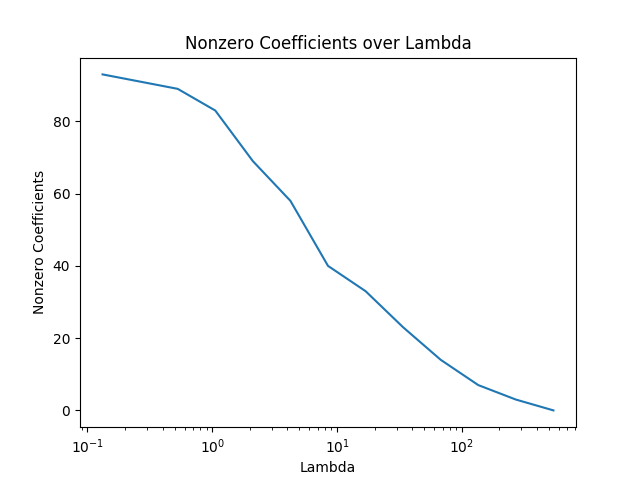
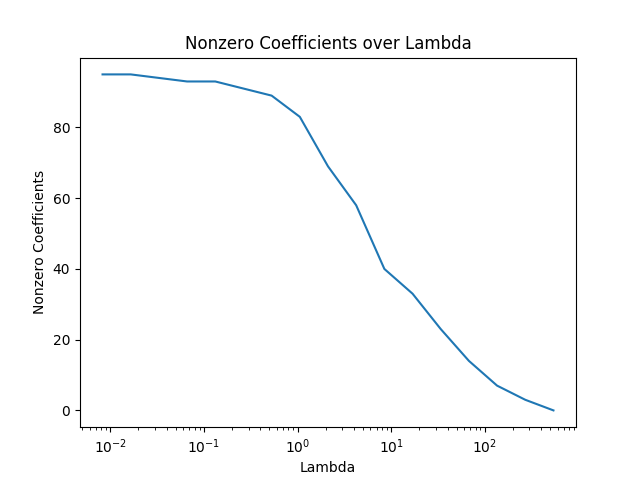
5d graph looks jank

diff --git a/hw2-code/src/crime-lasso.py b/hw2-code/src/crime-lasso.py
@@ -50,29 +50,34 @@ def main():
     else:
       w, b = crime_train_lasso.coord_desc(lamb, w=w_zero)
 
-    w_list.append(w)
+    print(w[0])
+    w_list.append(np.copy(w))
     b_list.append(b)
 
     lamb_data.append(lamb)
     nz_count = np.count_nonzero(w)
     nonzero_data.append(nz_count)
 
-    lamb = lamb / 2
-
-    if lamb < 0.1:
+    if lamb < 0.01:
       break
+
+    lamb = lamb / 2
 
   data_list = []
   for index in input_indices:
-    data_list.append(w_list[i][index] for i in range(len(w_list)))
-  print(len(data_list))
+    data_list.append([w_list[i][index] for i in range(len(w_list))])
+  
+  # print(data_list)
 
   h.plot_single("Nonzero Coefficients over Lambda", "A5c.png",
                 "Lambda", "Nonzero Coefficients", lamb_data, nonzero_data, True)
   
-  h.plot_multiple("Nonzero Coefficients over Lambda", "A5d.png", "Lambda", "Weights", lamb_data, data_list, True)
+  h.plot_multiple("Nonzero Coefficients over Lambda", "A5d.png", "Lambda", "Weights", lamb_data, data_list, input_variables, True)
 
-  # h.plot_single("Nonzero Coefficients over Lambda", "A5c.png", "Lambda", "Nonzero Coefficients", lamb_data, nonzero_data)
+  crime_train_lasso.get_sqerror
+  crime_test_lasso.get_sqerror
+
+  # h.plot_function("Squared Error over Lambda", "A5e.png", "Lambda", "Squared Error", train_data, test_data)
 
   lamb = 30
   if lamb == 30:

diff --git a/hw2-code/src/lasso.py b/hw2-code/src/lasso.py
@@ -116,7 +116,7 @@ class Lasso:
     self.X = X
     self.Y = np.squeeze(Y)
 
-  def calculate_error(self):
+  def get_sqerror(self):
     
 
     
